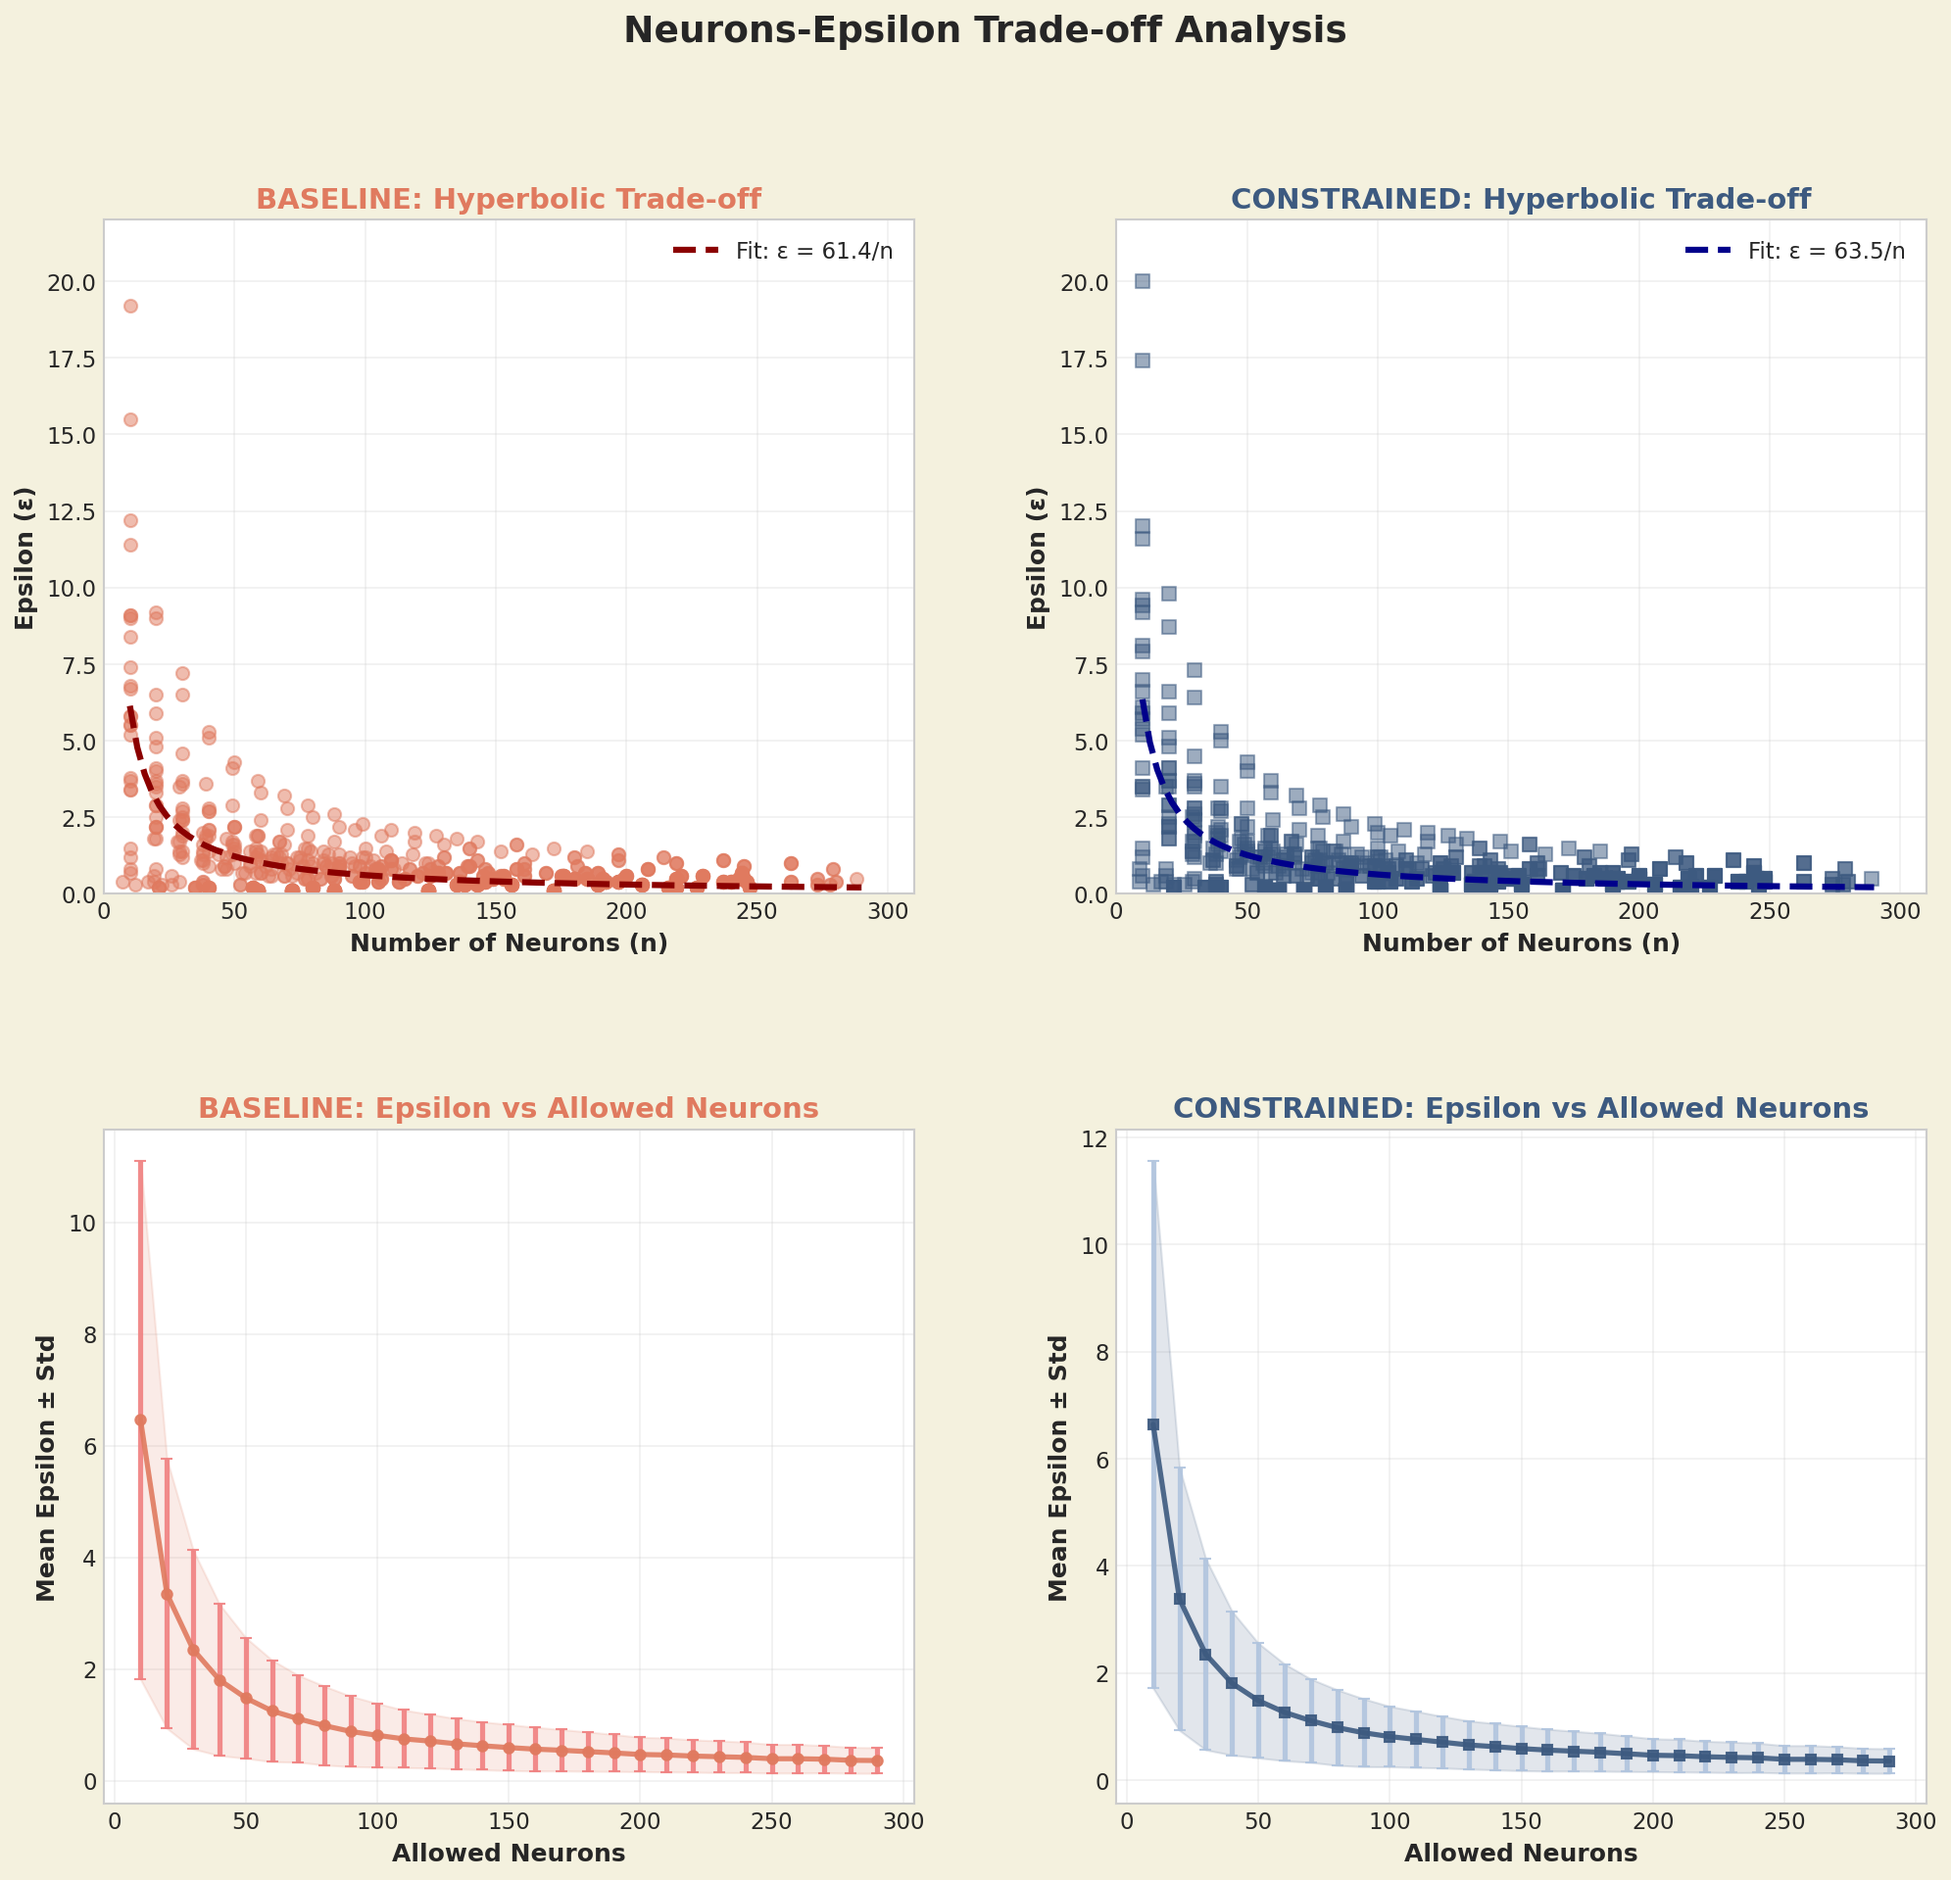
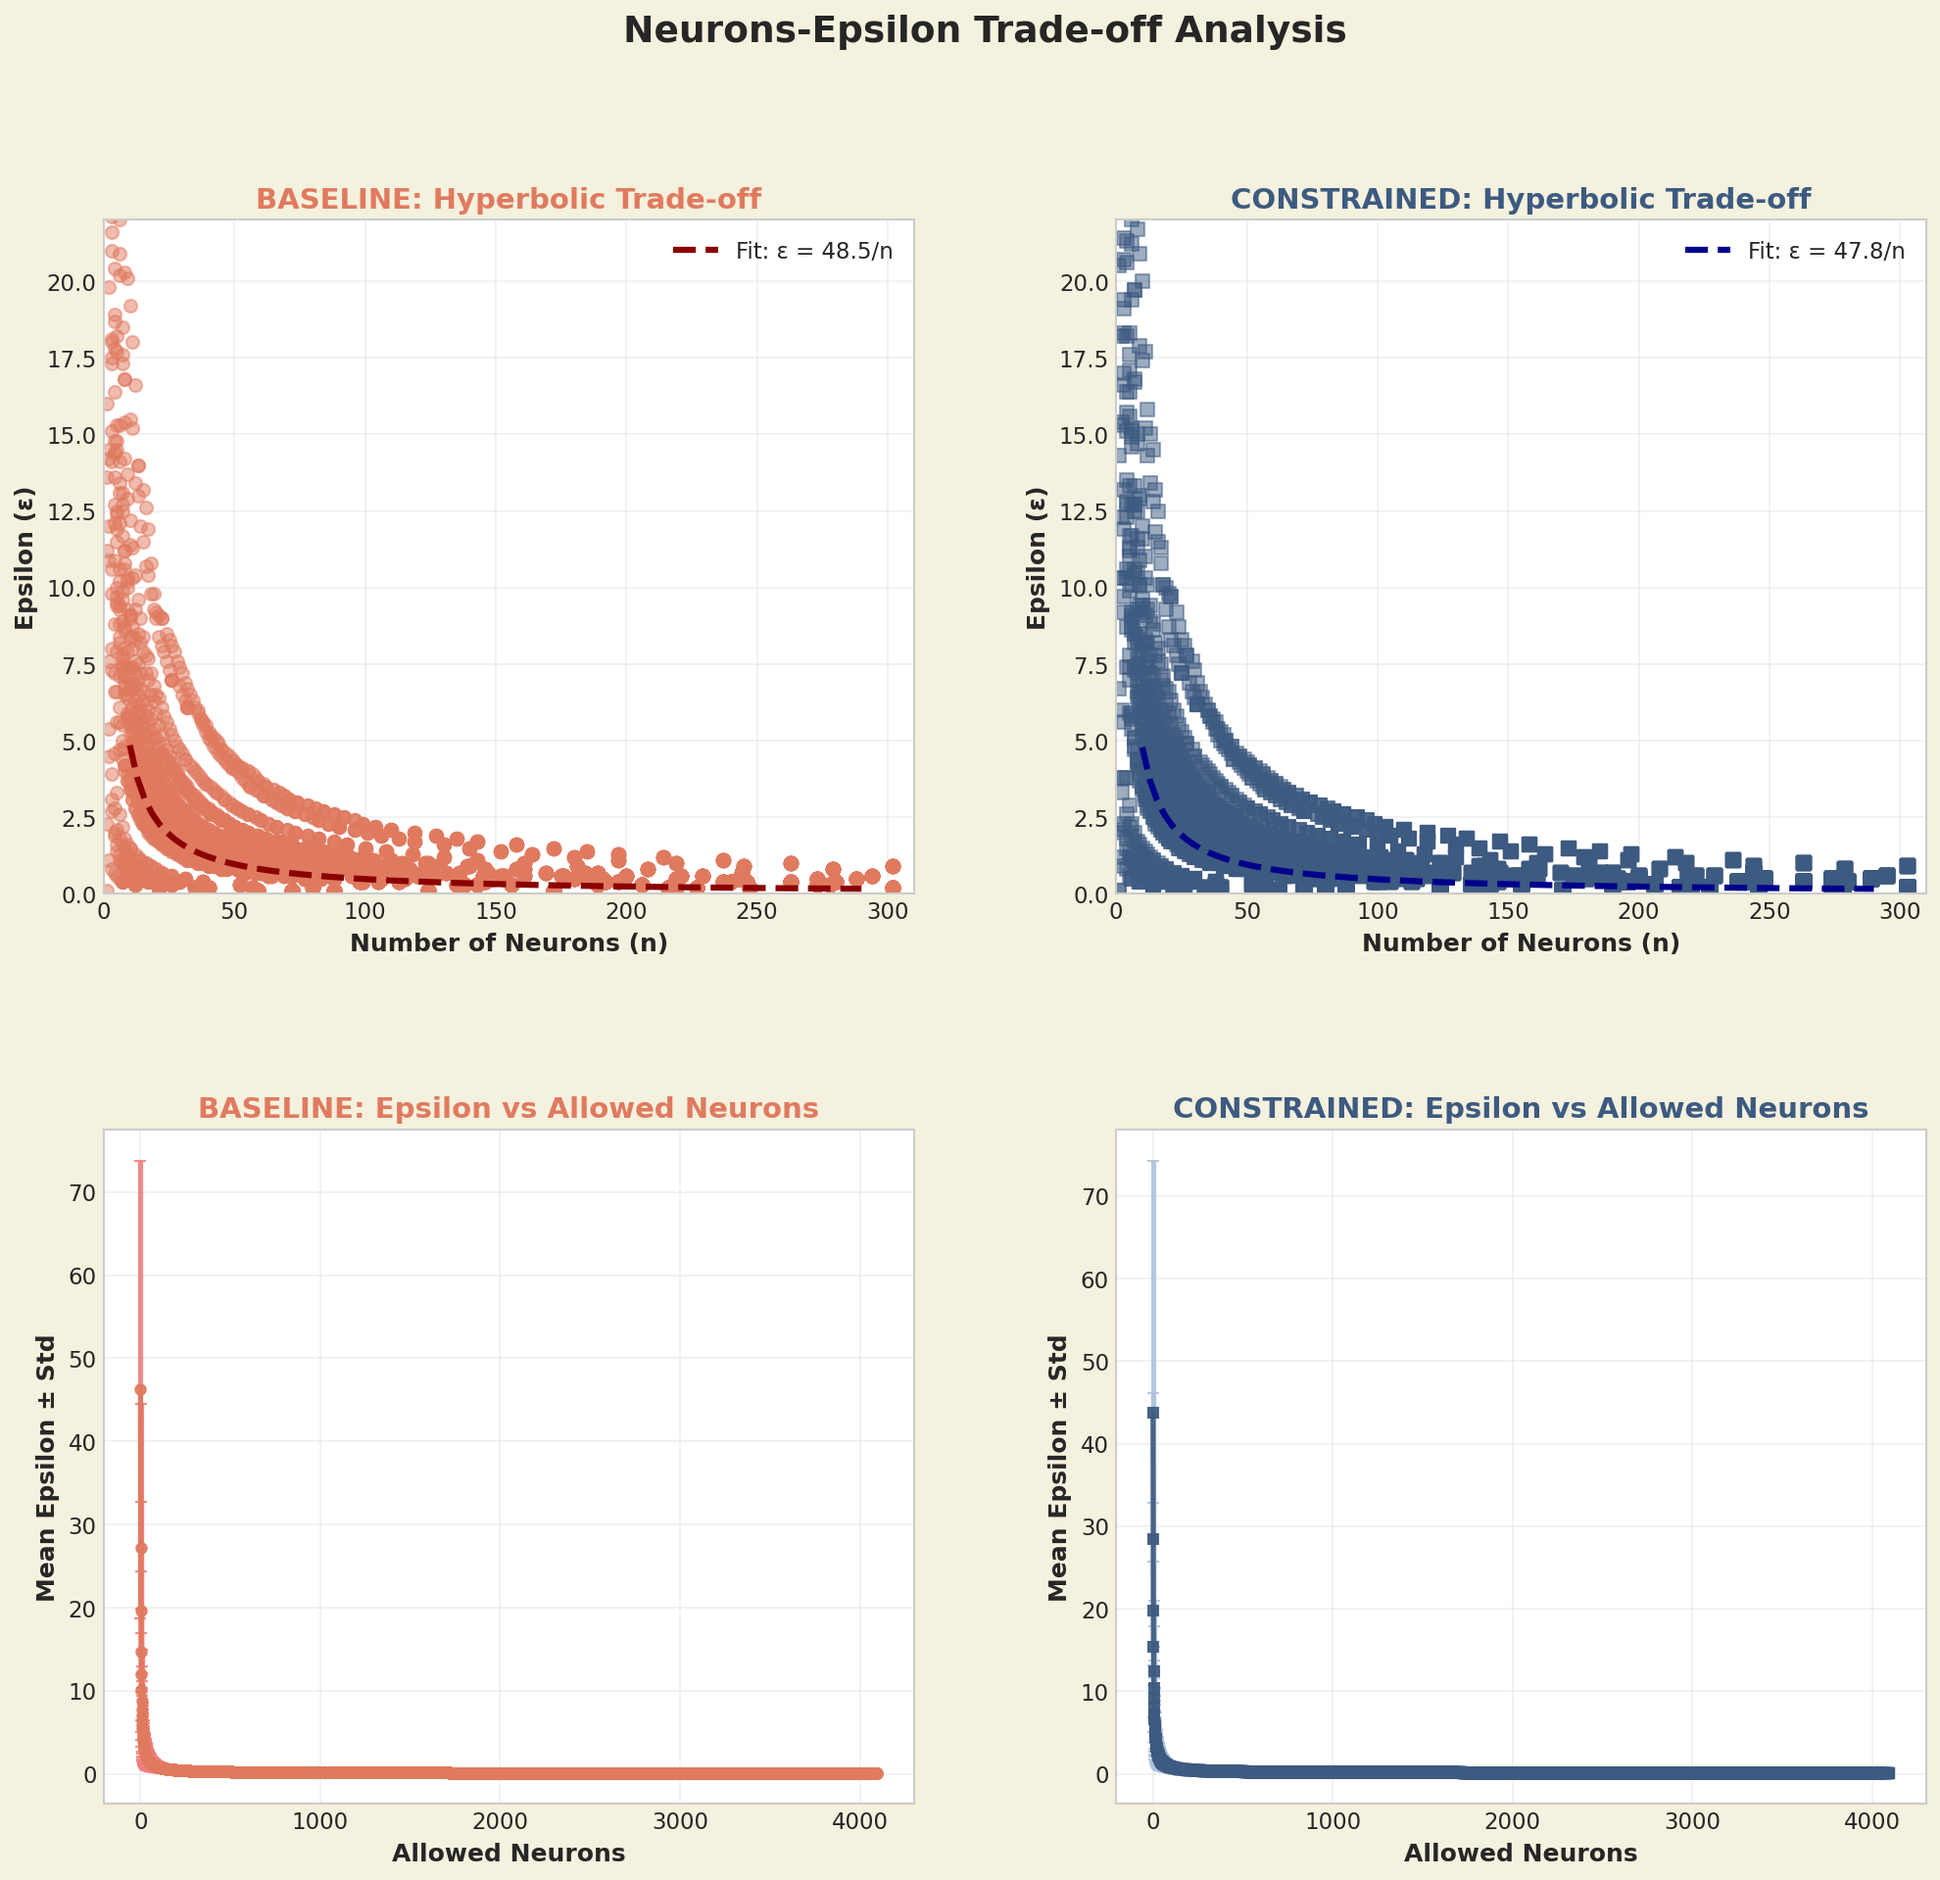
gg

diff --git a/PerturbAttackForNeuron/visualize_neurons_vs_epsilon.py b/PerturbAttackForNeuron/visualize_neurons_vs_epsilon.py
@@ -26,7 +26,7 @@ COLORS = {
 # Load Data
 # =============================================================================
 
-df = pd.read_csv("gradient_swap_attack_special_node_results.csv")
+df = pd.read_csv("./PerturbAttackForNeuron/gradient_swap_attack_special_node_results_2026-01-29_15-10-39.csv")
 print(f"Loaded {len(df)} rows")
 print(f"Unique inputs: {df['input_id'].nunique()}")
 

diff --git a/PerturbAttackForNeuron/visualize_attack_results.py b/PerturbAttackForNeuron/visualize_attack_results.py
@@ -476,7 +476,7 @@ def create_summary_table(df):
 
 if __name__ == "__main__":
     # Load data
-    df = load_data("gradient_swap_attack_special_node_results.csv")
+    df = load_data("./PerturbAttackForNeuron/gradient_swap_attack_special_node_results_2026-01-29_15-10-39.csv")
     
     # Print statistical summary
     print_statistical_summary(df)

diff --git a/PerturbAttackForNeuron/perturb_attack.py b/PerturbAttackForNeuron/perturb_attack.py
@@ -17,7 +17,7 @@ from typing import List, Dict, Any, Optional, Tuple
 
 # %%
 # %%
-DEVICE = torch.device('cpu')#'cuda' if torch.cuda.is_available() else 'cpu')
+DEVICE = torch.device('cuda' if torch.cuda.is_available() else 'cpu')
 MODEL_PATH = "meta-llama/Llama-2-7b-chat-hf"
 print(f"Using device: {DEVICE}")
 
